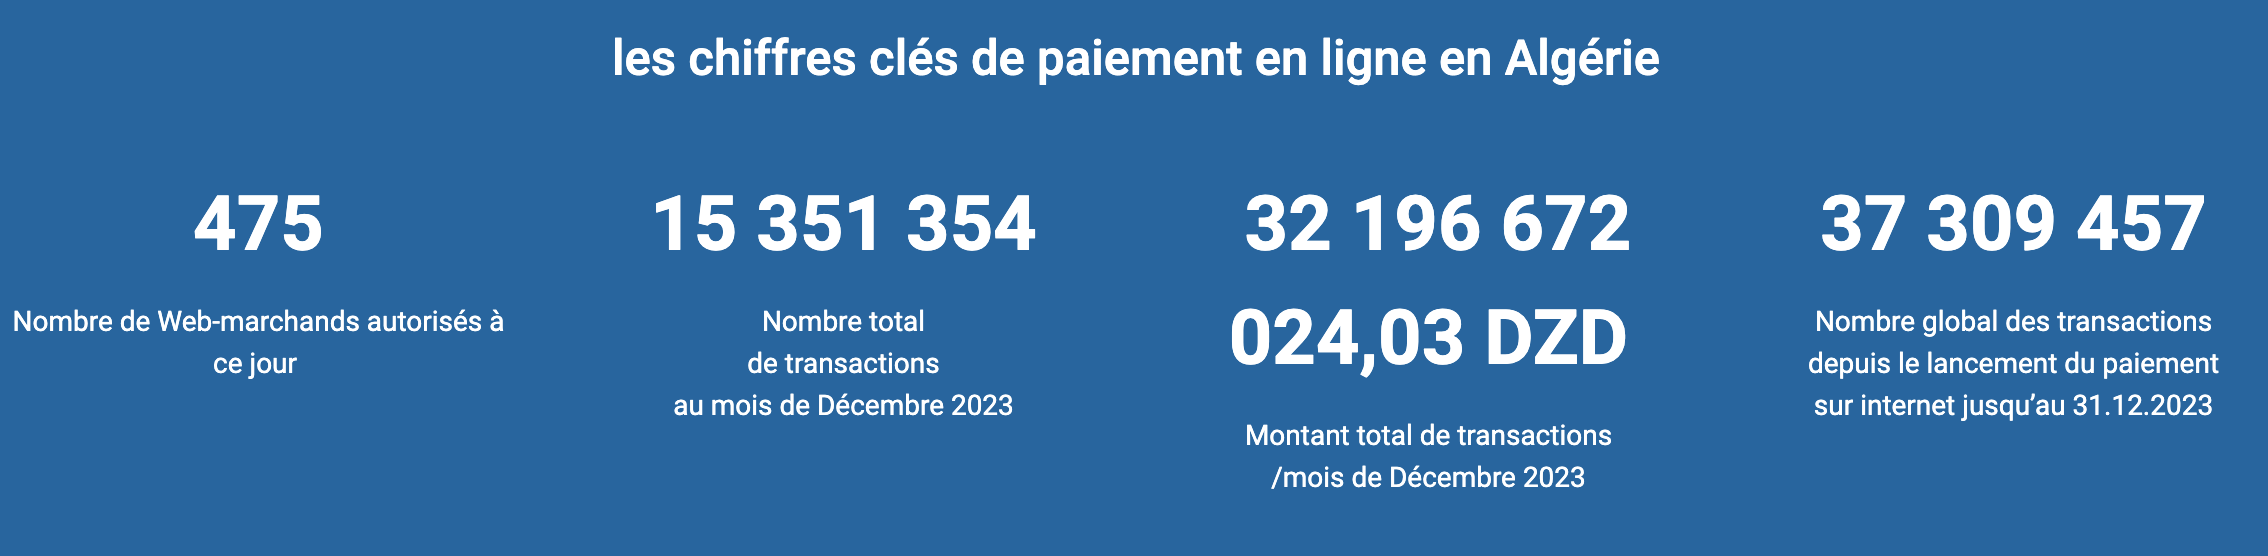
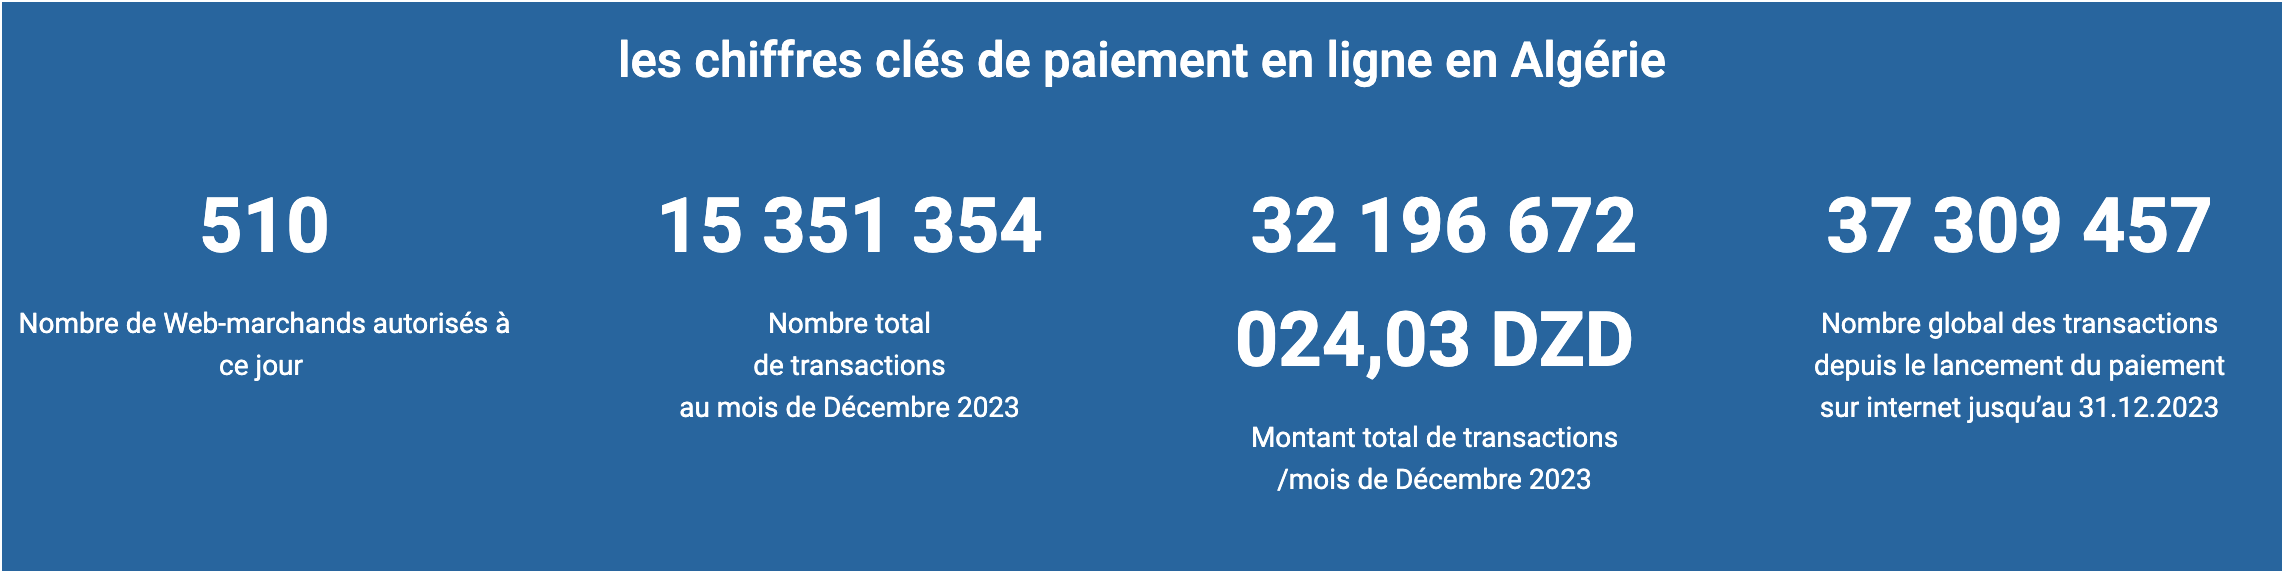
add more content about e-payment

diff --git a/website/docs/insights/e-payment-solutions.md b/website/docs/insights/e-payment-solutions.md
@@ -14,26 +14,79 @@ xychart-beta horizontal
   bar [68,41,12,3,1]
 ```
 
+<br/>
+
+The government's official solution (SATIM/CIBWeb) is followed by serval startups offering serval payment modules/APIs, [Chargily](https://chargily.com/) is the second most used solution according to our participants, then followed by [SlickPay](https://www.slick-pay.com/), and [Guidini's e-payment services](https://guiddini.com.dz/e-paiement-en-algerie/). 
+
+We will explore these options in the following sections, we will explore the usage of these different payment methods.
+
+## SATIM
+
 [SATIM (Automated Interbank Transactions and Electronic Banking Company)](https://www.satim.dz/) (consumed through [CIBWeb](https://www.cibweb.dz/fr/)) is the most used Algerian Payment solution, it accepts both local credit cards (CIB and EDDAHABIA).
 
-However, this solution seem in its early staged with only 475 authorized clients as of now (March 20th, 2024)*.
+However, this solution seem in its early staged with only 510 authorized clients as of now (May 28th, 2024) according to [CIB's website](https://www.cibweb.dz/fr/actualites-et-chiffres-cles).
 
 ![CIB WEB Data](/img/stats/cib-web-data.png)
 
+Looking into [previous screenshots of "cibweb.dz/fr/actualites-et-chiffres-cles" page on archive.org](https://web.archive.org/web/20240000000000*/https://cibweb.dz/fr/actualites-et-chiffres-cles), we notice the following pattern:
 
-> \* source: https://www.cibweb.dz/fr/actualites-et-chiffres-cles
+```mermaid
+xychart-beta
+  title "Number of approved web merchant"
+  x-axis ["August 2021", "October 2021", "May 2022", "December 2022", "May 2023", "March 2024", "May 2024"]
+  bar [101, 121, 130, 243,307, 475, 510]
+  line [101, 121, 130, 243,307, 475, 510]
+```
 
-The government's official solution (SATIM/CIBWeb) is followed by serval startups offering serval payment modules/APIs, [Chargily](https://chargily.com/) is the second most used solution according to our participants, then followed by [SlickPay](https://www.slick-pay.com/), and [Guidini's e-payment services](https://guiddini.com.dz/e-paiement-en-algerie/).
+<br/>
 
-Such startups promise a better developer experience with their APIs and their lower initial cost. 
+The slow increase of these numbers sets the following hypothesis:
 
-<!-- However, looking into CIB's authorized web merchants: https://www.cibweb.dz/fr/annuaires-des-marchands, we see that these startups are registered under different labels.
+1. The e-commerce culture is not established yet, businesses are still not online or they don't provide e-payment options.
+2. The SATIM's processing time and the lack of a clear guidance slows down the adoption, businesses may wait for a long time to implement e-payment solutions and/or to get approved by the authority.
+3. Businesses use third-party payment providers or other solutions.
 
-This may arise some questions about FinTech startup regulations. Do these startup have special licenses to perform financial operations? Does the government require certificates from certain auditors to issue licenses?
+<br/>
 
-On the other hand, onboarding CIBWeb solution might not be trivial and it is not well documented. Navigating through "CIB WEB" search results is very hard as they are often linking to Chargily or Slickpay instead of pointing to official resources, or tutorials/documentation on how to onboard to the official CIBWeb solution. -->
+The first point is out of scope in our study as [it requires](/docs/closing#e-commerce) a dedicated study. Therefor, we will only focus on the other hypothesis.
 
+<br/>
 
-https://www.poste.dz/services/professional/baridimobweb
+According to several interviews we conducted:
 
-https://cibweb.dz/fr/modules-autorise
+- Some developers are not aware of the process of how to integrate e-payment solutions.
+- Some businesses tend to postpone e-payment integration with the official SATIM/CIB APIs because of their process and pricing.
+
+The integration with SATIM/CIB lacks a technical documentation, or at least the "technical" promotion of an existing one.
+
+E-payment and CIB search keywords in Algeria are often pointing to third-party services and not the official websites and sources.
+
+Personal in banks are sometimes not aware of the processes, developers and businesses find it challenging to ask their banks for information.
+
+In a interview with a software development agency who's behind a subscription-based solution, we were told that they could not integrate with SATIM/CIB payment solutions since their process takes a lot of time, and it introduces a significant cost.
+
+In another interview with a developer, we were informed that CIB process may take several months, and their test environment is a paid one, which makes it very expensive the longer it's used.
+
+## Using third-party payment solutions
+
+SATIM's high entry barriers, the confusion or the lack of information on how to integrate with them, in addition to not promote their solutions between software development communities and agencies created silos.
+
+These challenges and silos created an opportunity for some startups and software development agencies. As SATIM requires businesses to have a payment module, some software development agencies promotes their own modules.
+
+As of May 2024, we counted 81 authorized [e-payment modules](https://www.cibweb.dz/fr/modules-autorise/). These modules are provided by software development agencies who offer their solutions as a feature in their products, while other companies launched dedicated startups for this need.
+
+Such startups promise a better developer experience with their APIs, their libraries and their lower initial costs.
+
+These startups promote their solutions in developer communities, and promise to have a better developer experience. However, some developers and businesses still don't trust them due to the lack of a clear legal framework for their practices.
+
+In an interview with a representative of one of these startups we learned that no special audit or certificates were required for them to operate apart from SATIM's to get them approved.
+
+Some of these application APIs endpoints are hosted abroad, and are served from non **.dz** domains, which might not be compliant with Algerian laws, or at least they operate in "gray areas" of the Algerian legislation.
+
+## Using Baridimob and Baridiweb services
+
+Some businesses use [Baridimob and BaridiWeb](https://www.poste.dz/services/professional/baridimobweb) as a solution to send and receive payments, as an electronic payments solution.
+
+The daily limit was upgraded from 50K DZD, to **200K DZD** since July 2023. 
+
+Transfers are subjected to a varying fee depending on the specified amount, fees are mentioned in [Algérie Poste website's FAQ page](https://www.poste.dz/faqM).

diff --git a/website/docs/appendix/raw-interviews.md b/website/docs/appendix/raw-interviews.md
@@ -470,6 +470,25 @@ We have a special pricing plan for people with auto-entrepreneur card, we also p
 We use Laravel, Vue.js, Node.js and Electron for Desktop applications. We may also use different technologies in different products, our engineers are free to pick whatever technology they find useful to do the job.
 </details>
 
+
+## A developer who worked for Algerian companies (governmental agencies and startups)
+
+<details>
+<summary>If I wants to integrate e-payment in my Algerian website, what are the steps to follow? and what's the point from third-party solutions like Guidini, Slickpay and Chargily?</summary>
+
+You have to ask your bank first (for your professional bank account to be able te receive e-payments).
+
+They will start the process with GIE Monétique, the bank will ask them for a test environment (a sandbox) for you with some API documentation.
+
+You integrate their APIs in your system, when when test scenarios are fine, you provides some screenshots to GIE Monétique as a second proof. Then they will give you production API credentials. 
+
+This process may take few months.
+
+The third-party solutions are the software part, for example Wordpress WooCommerce plugin, they are tested, so you don't re-do that part on your own, or maybe the tests will take only few days. It accelerates the process, reduce few costs, test environment is a paid service, the longer it takes, the more expensive it becomes.
+
+These third-party service also provide payment gateways, you can use them if you don't want to use e-payment APIs. For example, in a marketplace website, you create a store, plug their solution and they will send you the money from purchases that happens through their module.
+</details>
+
 <!-- 
 <details>
 <summary>

diff --git a/website/docs/appendix/index.md b/website/docs/appendix/index.md
@@ -44,3 +44,4 @@ custom_edit_url: https://github.com/Fcmam5/state-of-dz-swe-2024/tree/master/webs
 - Baromètre des connexions Internet mobiles en Algérie (2022/2023) - https://media.nperf.com/files/publications/DZ/2023-07-11_Barometre-connexions-mobiles-nPerf-S2-2022-S1-2023.pdf
 - Education in the Maghreb: Algeria - https://wenr.wes.org/2006/04/wenr-apr-2006-education-in-algeria
 - Global Organized Crime Index: Algeria - https://ocindex.net/country/algeria
+- Virements financiers : Algérie Poste relève le plafonnement à 200.000 DA via BaridiMob - https://www.algerie-eco.com/2023/06/17/virements-financiers-algerie-poste-revele-le-plafonnement-a-200-000-da-via-baridimob/

diff --git a/website/docs/closing.md b/website/docs/closing.md
@@ -69,6 +69,14 @@ A document has to be published to show how to get internships? What's needed for
 
 Job portals should offer and promote positions for interns if possible.
 
+#### E-Commerce
+
+Algeria made big steps in this field, with new laws and regulations, more promotion for using POS terminals and payment gateways.
+
+And lately, there's a big hype around it, with more events and conferences. This hype can both create more "noise
+
+A report about e-commerce in Algeria has to be done to ride these first waves, and to create a good base for having historical data for the next iterations.
+
 #### Education
 
 ### Unanswered questions or unexplored correlations

diff --git a/website/docs/insights/open-source.md b/website/docs/insights/open-source.md
@@ -128,3 +128,4 @@ TBD
 - https://github.com/BIGmama-technology
 - https://github.com/codiume
 - https://github.com/idurar
+- https://github.com/transformatek

diff --git a/website/docs/insights/challenges.md b/website/docs/insights/challenges.md
@@ -120,6 +120,7 @@ khadma f noir
 hard for billing
 Fatoura?
 
+###  Talents lacks in soft skills 
 
 
 ## Other challenges
